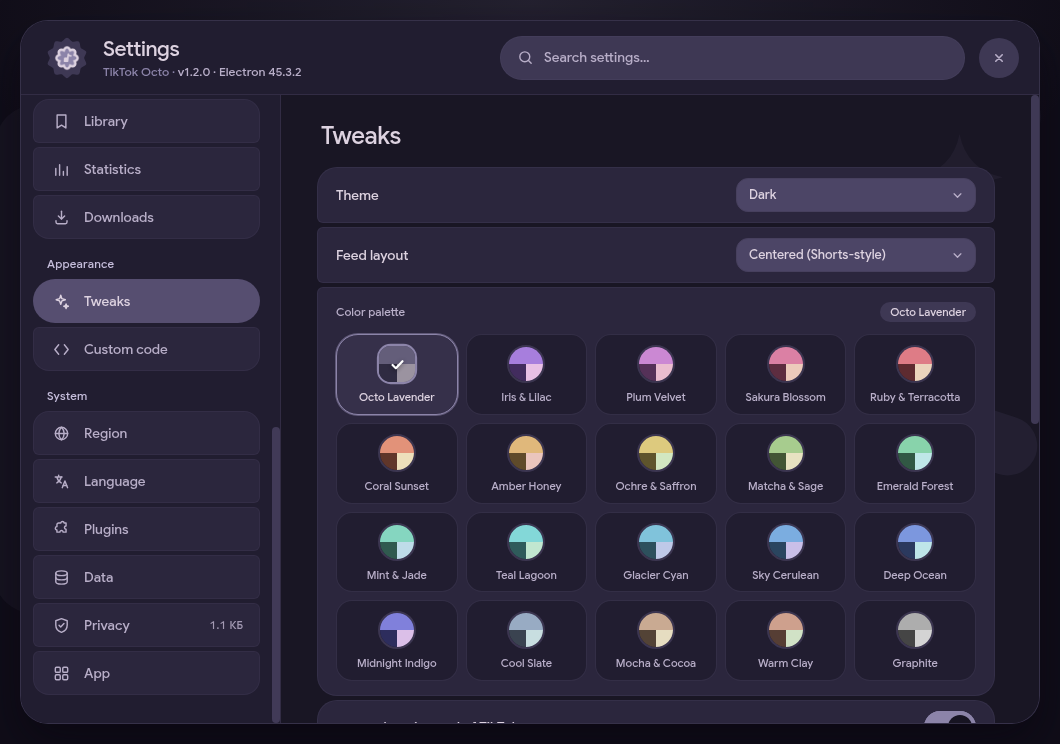
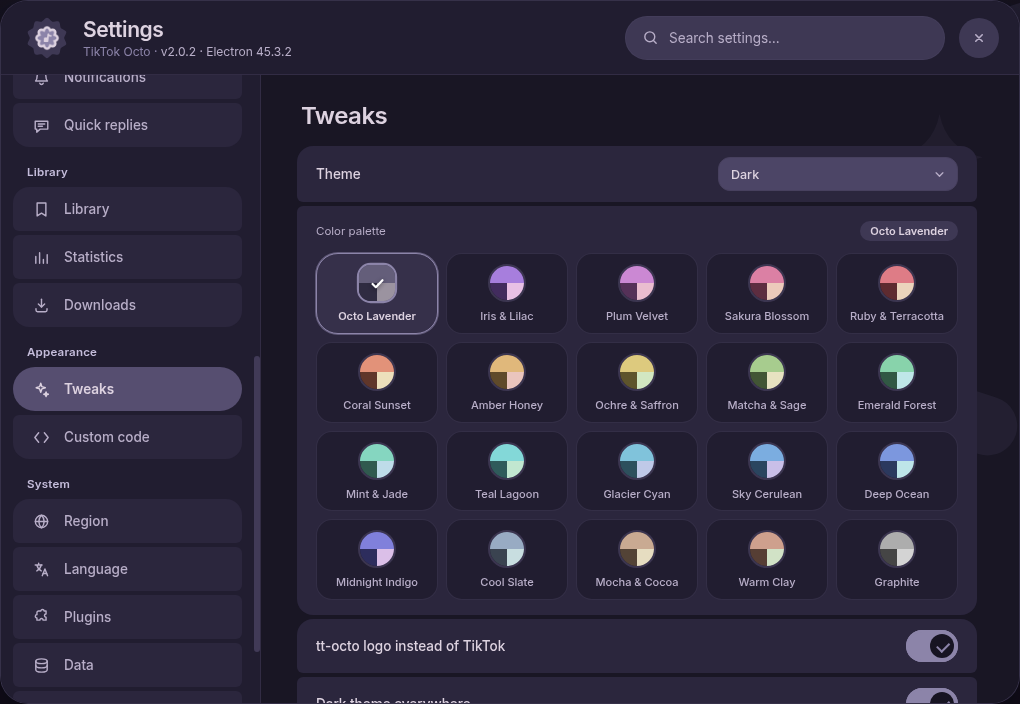
Настройки: тональные строки MD3 без обводки, углы групп 16px и тонкие скроллбары

diff --git a/src/renderer/styles.css b/src/renderer/styles.css
@@ -57,6 +57,8 @@
   --md-shape-sm: 8px;
   --md-shape-md: 12px;
   --md-shape-lg: 20px;
+  /* Внешние края сгруппированных списков (настройки, клавиши, библиотека). */
+  --md-shape-group: 16px;
   --md-shape-xl: 28px;
   --md-shape-pill: 24px;
   --md-shape-full: 9999px;
@@ -1771,12 +1773,17 @@ body.is-downloading .progress {
 
 .settings-nav::-webkit-scrollbar,
 .settings-content::-webkit-scrollbar {
-  width: 8px;
+  width: 6px;
 }
 
 .settings-nav::-webkit-scrollbar-thumb,
 .settings-content::-webkit-scrollbar-thumb {
   border-radius: 9999px;
+  background: transparent;
+}
+
+.settings-nav:is(:hover, :focus-within)::-webkit-scrollbar-thumb,
+.settings-content:is(:hover, :focus-within)::-webkit-scrollbar-thumb {
   background: color-mix(in srgb, var(--md-outline-variant) 85%, transparent);
 }
 
@@ -1810,7 +1817,7 @@ body.is-downloading .progress {
   width: 100%;
   height: 44px;
   padding: 0 16px;
-  border: 1px solid color-mix(in srgb, var(--md-outline-variant) 30%, transparent);
+  border: 1px solid transparent;
   border-radius: 6px;
   background: var(--md-surface-container);
   color: var(--md-on-surface-variant);
@@ -1840,7 +1847,7 @@ body.is-downloading .progress {
 }
 
 .panel-cat-head:hover {
-  border-color: color-mix(in srgb, var(--md-outline-variant) 68%, transparent);
+  border-color: transparent;
   background: var(--md-surface-container-high);
   color: var(--md-on-surface);
 }
@@ -1930,7 +1937,7 @@ body.is-downloading .progress {
   min-height: 54px;
   height: auto;
   padding: 10px 18px;
-  border: 1px solid color-mix(in srgb, var(--md-outline-variant) 34%, transparent);
+  border: 1px solid transparent;
   border-radius: 6px;
   background: var(--md-surface-container);
   color: var(--md-on-surface);
@@ -1943,7 +1950,7 @@ body.is-downloading .progress {
 .settings-content .panel-field {
   gap: 10px;
   padding: 14px 18px;
-  border: 1px solid color-mix(in srgb, var(--md-outline-variant) 34%, transparent);
+  border: 1px solid transparent;
   border-radius: 6px;
   background: var(--md-surface-container);
 }
@@ -1955,8 +1962,8 @@ body.is-downloading .progress {
   + :is(.panel-row, .panel-field),
 .settings-content .panel-list > .panel-row:first-child,
 .settings-content .download-list > .download-row:first-child {
-  border-top-left-radius: var(--md-shape-lg);
-  border-top-right-radius: var(--md-shape-lg);
+  border-top-left-radius: var(--md-shape-group);
+  border-top-right-radius: var(--md-shape-group);
 }
 
 .settings-content .panel-cat-body > :is(.panel-row, .panel-field):last-child,
@@ -1965,17 +1972,17 @@ body.is-downloading .progress {
   > :is(.panel-row, .panel-field):has(+ :not(.panel-row):not(.panel-field)),
 .settings-content .panel-list > .panel-row:last-child,
 .settings-content .download-list > .download-row:last-child {
-  border-bottom-left-radius: var(--md-shape-lg);
-  border-bottom-right-radius: var(--md-shape-lg);
+  border-bottom-left-radius: var(--md-shape-group);
+  border-bottom-right-radius: var(--md-shape-group);
 }
 
 .settings-content .panel-list > .panel-row:only-child,
 .settings-content .download-list > .download-row:only-child {
-  border-radius: var(--md-shape-lg);
+  border-radius: var(--md-shape-group);
 }
 
 .settings-content button.panel-row:hover {
-  border-color: color-mix(in srgb, var(--md-outline-variant) 72%, transparent);
+  border-color: transparent;
   background: var(--md-surface-container-high);
   color: var(--md-on-surface);
 }
@@ -3281,7 +3288,7 @@ body.is-muted .volume-range {
   width: 100%;
   min-height: 46px;
   padding: 6px 16px;
-  border: 1px solid color-mix(in srgb, var(--md-outline-variant) 34%, transparent);
+  border: 1px solid transparent;
   border-radius: 8px;
   background: var(--md-surface-container);
   color: var(--md-on-surface);
@@ -3297,21 +3304,21 @@ body.is-muted .volume-range {
 }
 
 .keymap-row:first-child {
-  border-top-left-radius: var(--md-shape-lg);
-  border-top-right-radius: var(--md-shape-lg);
+  border-top-left-radius: var(--md-shape-group);
+  border-top-right-radius: var(--md-shape-group);
 }
 
 .keymap-row:last-child {
-  border-bottom-left-radius: var(--md-shape-lg);
-  border-bottom-right-radius: var(--md-shape-lg);
+  border-bottom-left-radius: var(--md-shape-group);
+  border-bottom-right-radius: var(--md-shape-group);
 }
 
 .keymap-row:only-child {
-  border-radius: var(--md-shape-lg);
+  border-radius: var(--md-shape-group);
 }
 
 .keymap-row:hover {
-  border-color: color-mix(in srgb, var(--md-outline-variant) 68%, transparent);
+  border-color: transparent;
   background: var(--md-surface-container-high);
   color: var(--md-on-surface);
 }
@@ -3378,23 +3385,23 @@ body.is-muted .volume-range {
   flex-direction: column;
   gap: 6px;
   padding: 12px 16px;
-  border: 1px solid color-mix(in srgb, var(--md-outline-variant) 34%, transparent);
+  border: 1px solid transparent;
   border-radius: 6px;
   background: var(--md-surface-container);
 }
 
 .library-item:first-child {
-  border-top-left-radius: var(--md-shape-lg);
-  border-top-right-radius: var(--md-shape-lg);
+  border-top-left-radius: var(--md-shape-group);
+  border-top-right-radius: var(--md-shape-group);
 }
 
 .library-item:last-child {
-  border-bottom-left-radius: var(--md-shape-lg);
-  border-bottom-right-radius: var(--md-shape-lg);
+  border-bottom-left-radius: var(--md-shape-group);
+  border-bottom-right-radius: var(--md-shape-group);
 }
 
 .library-item:only-child {
-  border-radius: var(--md-shape-lg);
+  border-radius: var(--md-shape-group);
 }
 
 .library-head {

diff --git a/src/renderer/plugins.css b/src/renderer/plugins.css
@@ -1151,3 +1151,14 @@
 .octo-select-opt.is-selected .octo-select-check {
   opacity: 1;
 }
+
+@media (prefers-reduced-motion: reduce) {
+  *,
+  *::before,
+  *::after {
+    animation-duration: 0.01ms !important;
+    animation-iteration-count: 1 !important;
+    transition-duration: 0.01ms !important;
+    scroll-behavior: auto !important;
+  }
+}

diff --git a/CHANGELOG.md b/CHANGELOG.md
@@ -2,8 +2,18 @@
 
 ## Не выпущено
 
+### Изменено
+
+- **Настройки в стиле MD3 Expressive** — строки и пункты навигации в
+  настройках, списке клавиш и библиотеке стали тональными, без тонкой
+  обводки; внешние углы групп выровнены до 16px, как у навигации, а
+  скроллбары панелей стали тоньше и появляются только при наведении.
+
 ### Исправлено
 
+- **Менеджер плагинов и «Уменьшение движения»** — окно менеджера
+  плагинов теперь учитывает системную настройку уменьшения анимаций, как
+  главное окно.
 - **Свёрнутая боковая панель и логотип** — кнопка разворота и сворачивания
   боковой панели в теме MD3 больше не сдвигается к правому краю и не
   оформляется как пункт меню; при уводе курсора с верхней части свёрнутого

diff --git a/README.ru.md b/README.ru.md
@@ -101,7 +101,7 @@
 по всем разделам.
 
 <div align="center">
-  <img src="docs/settings.png" width="820" alt="Окно настроек TikTok Octo в стиле Material Design 3 Expressive: сгруппированная навигация слева, поиск и 20 цветовых палитр" />
+  <img src="docs/settings.png?v=2" width="820" alt="Окно настроек TikTok Octo в стиле Material Design 3 Expressive: сгруппированная навигация слева, поиск и 20 цветовых палитр" />
   <br />
   <sub><i>Окно настроек в стиле Material Design 3 Expressive: сгруппированное меню разделов, мгновенный поиск, выбор темы и 20 цветовых палитр.</i></sub>
 </div>

diff --git a/README.md b/README.md
@@ -99,7 +99,7 @@ over the feed: grouped sections live in the left rail for one-click switching,
 setting cards sit on the right, and header search filters every section at once.
 
 <div align="center">
-  <img src="docs/settings.png" width="820" alt="TikTok Octo MD3 Expressive Settings overlay with grouped navigation rail, search bar, and 20 harmonious color palettes" />
+  <img src="docs/settings.png?v=2" width="820" alt="TikTok Octo MD3 Expressive Settings overlay with grouped navigation rail, search bar, and 20 harmonious color palettes" />
   <br />
   <sub><i>Settings overlay in Material Design 3 Expressive: grouped rail, instant search, theme modes and 20 color palettes.</i></sub>
 </div>
